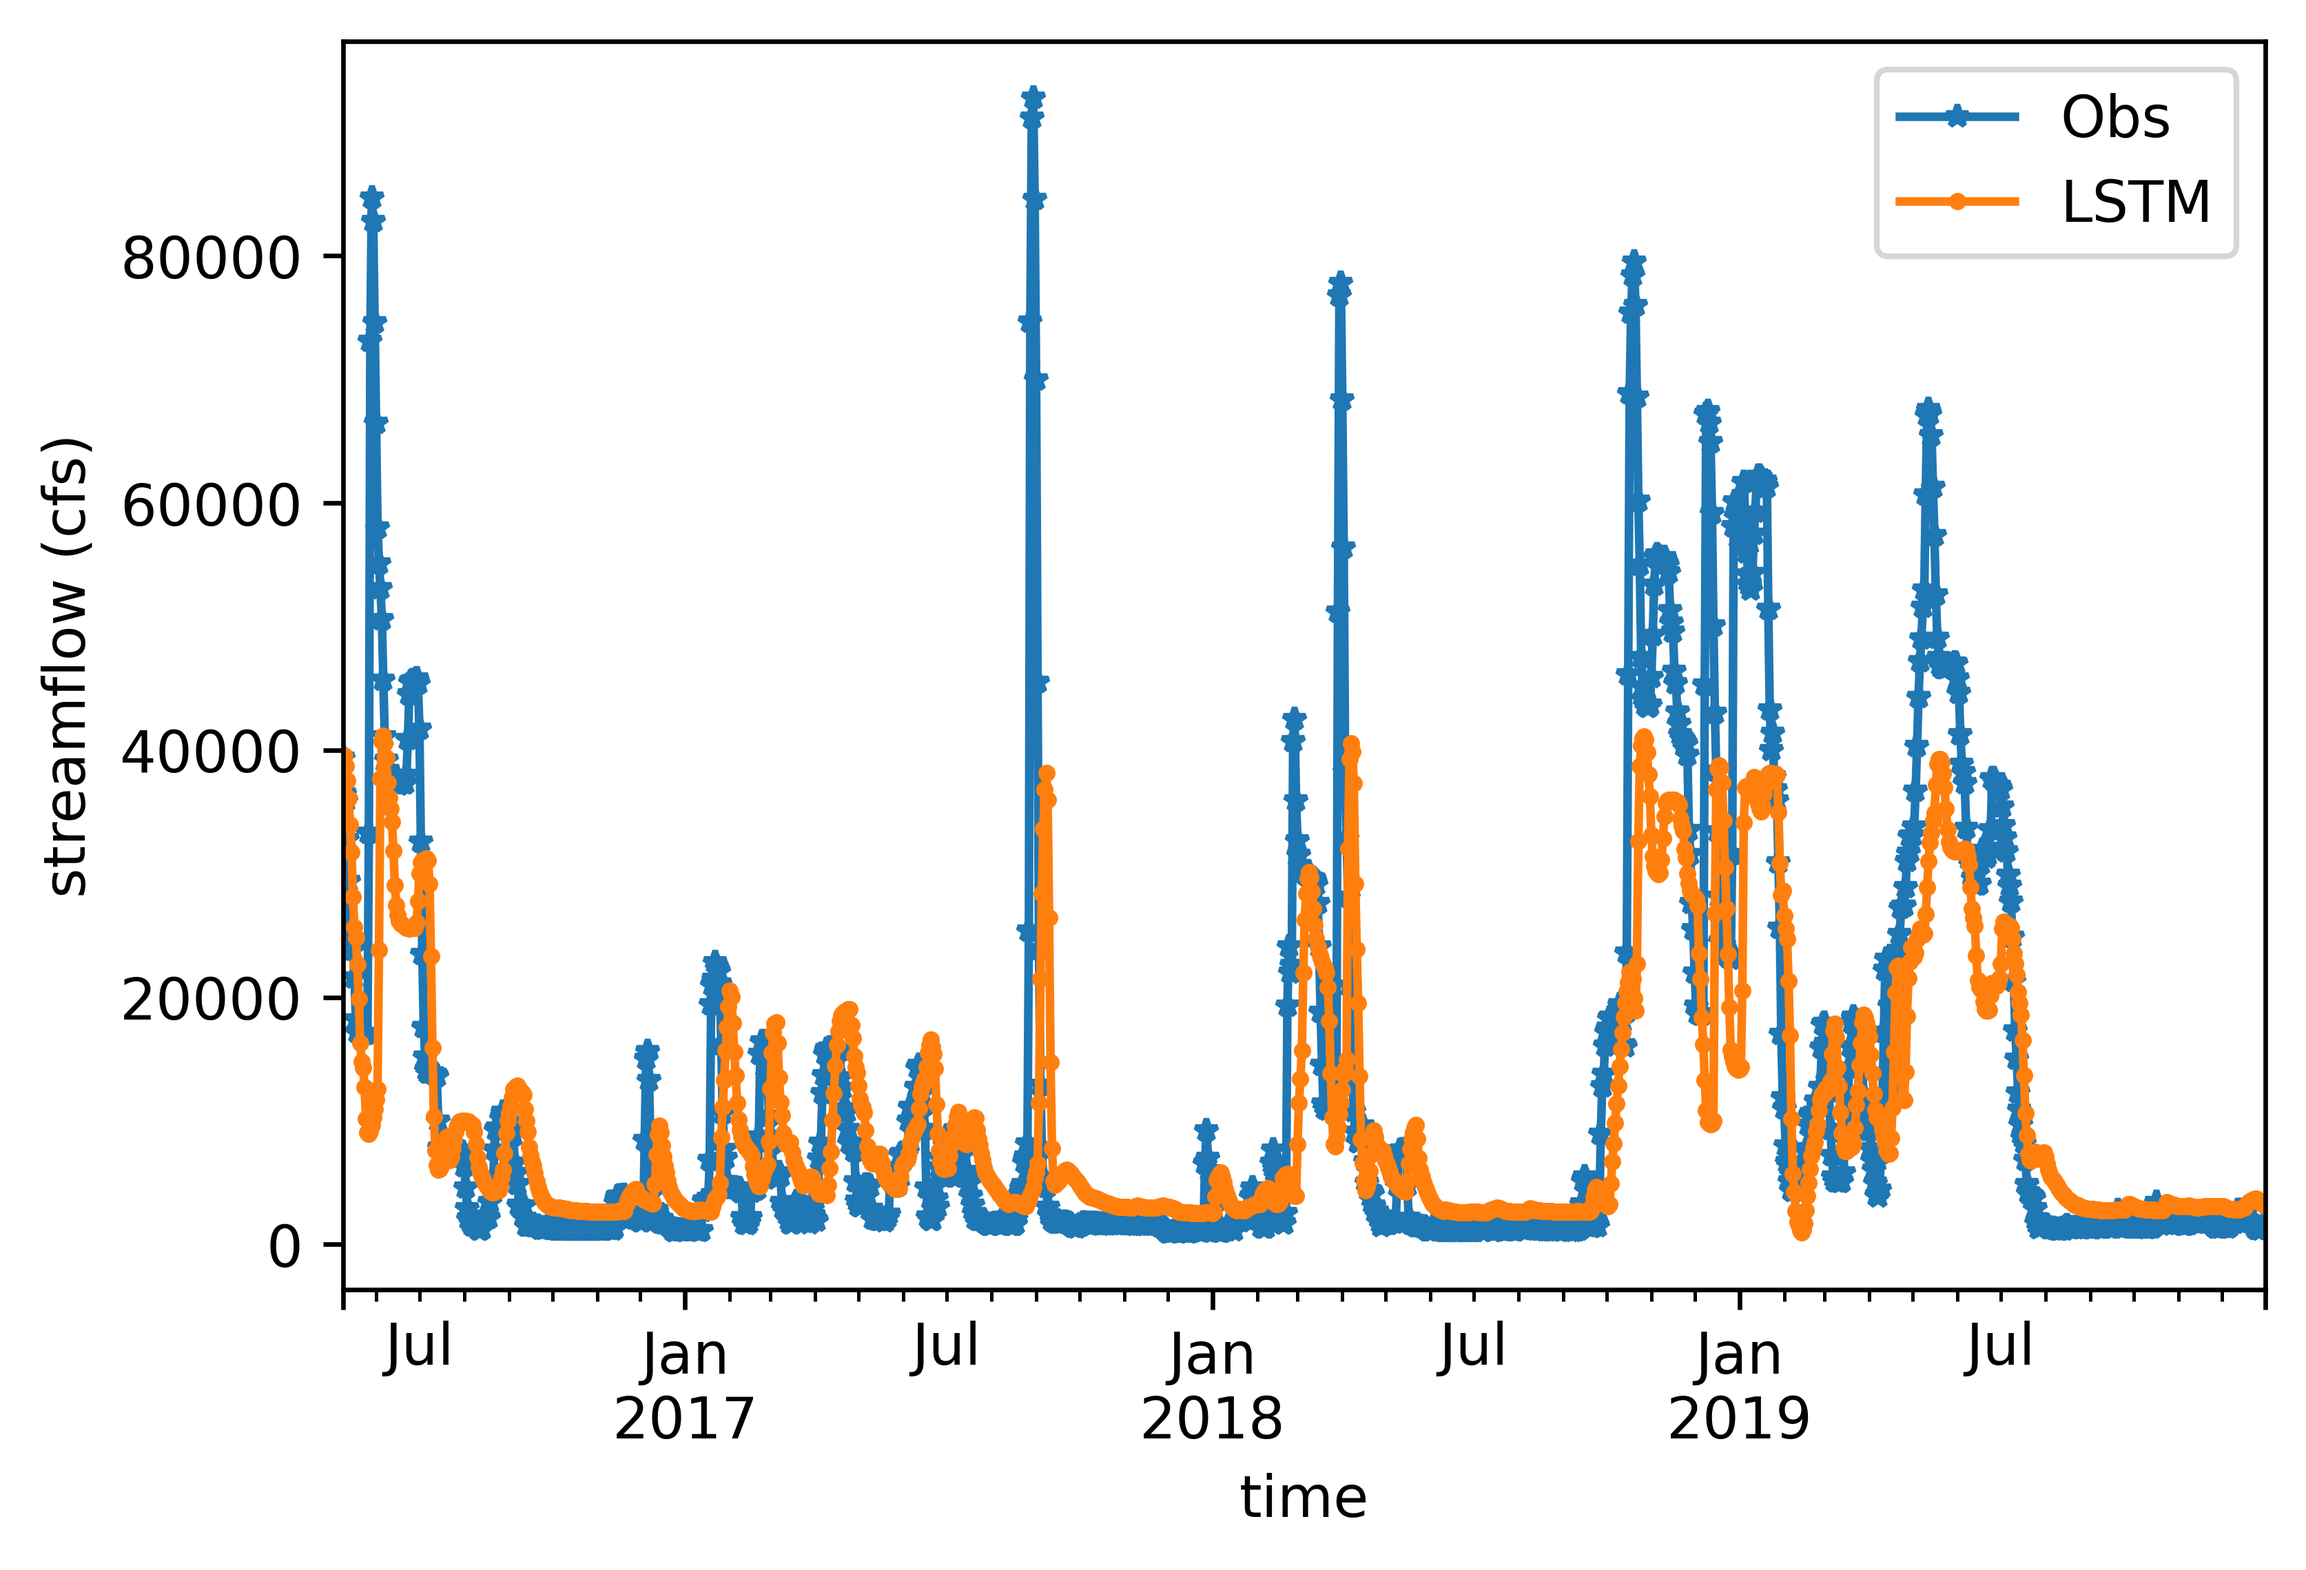
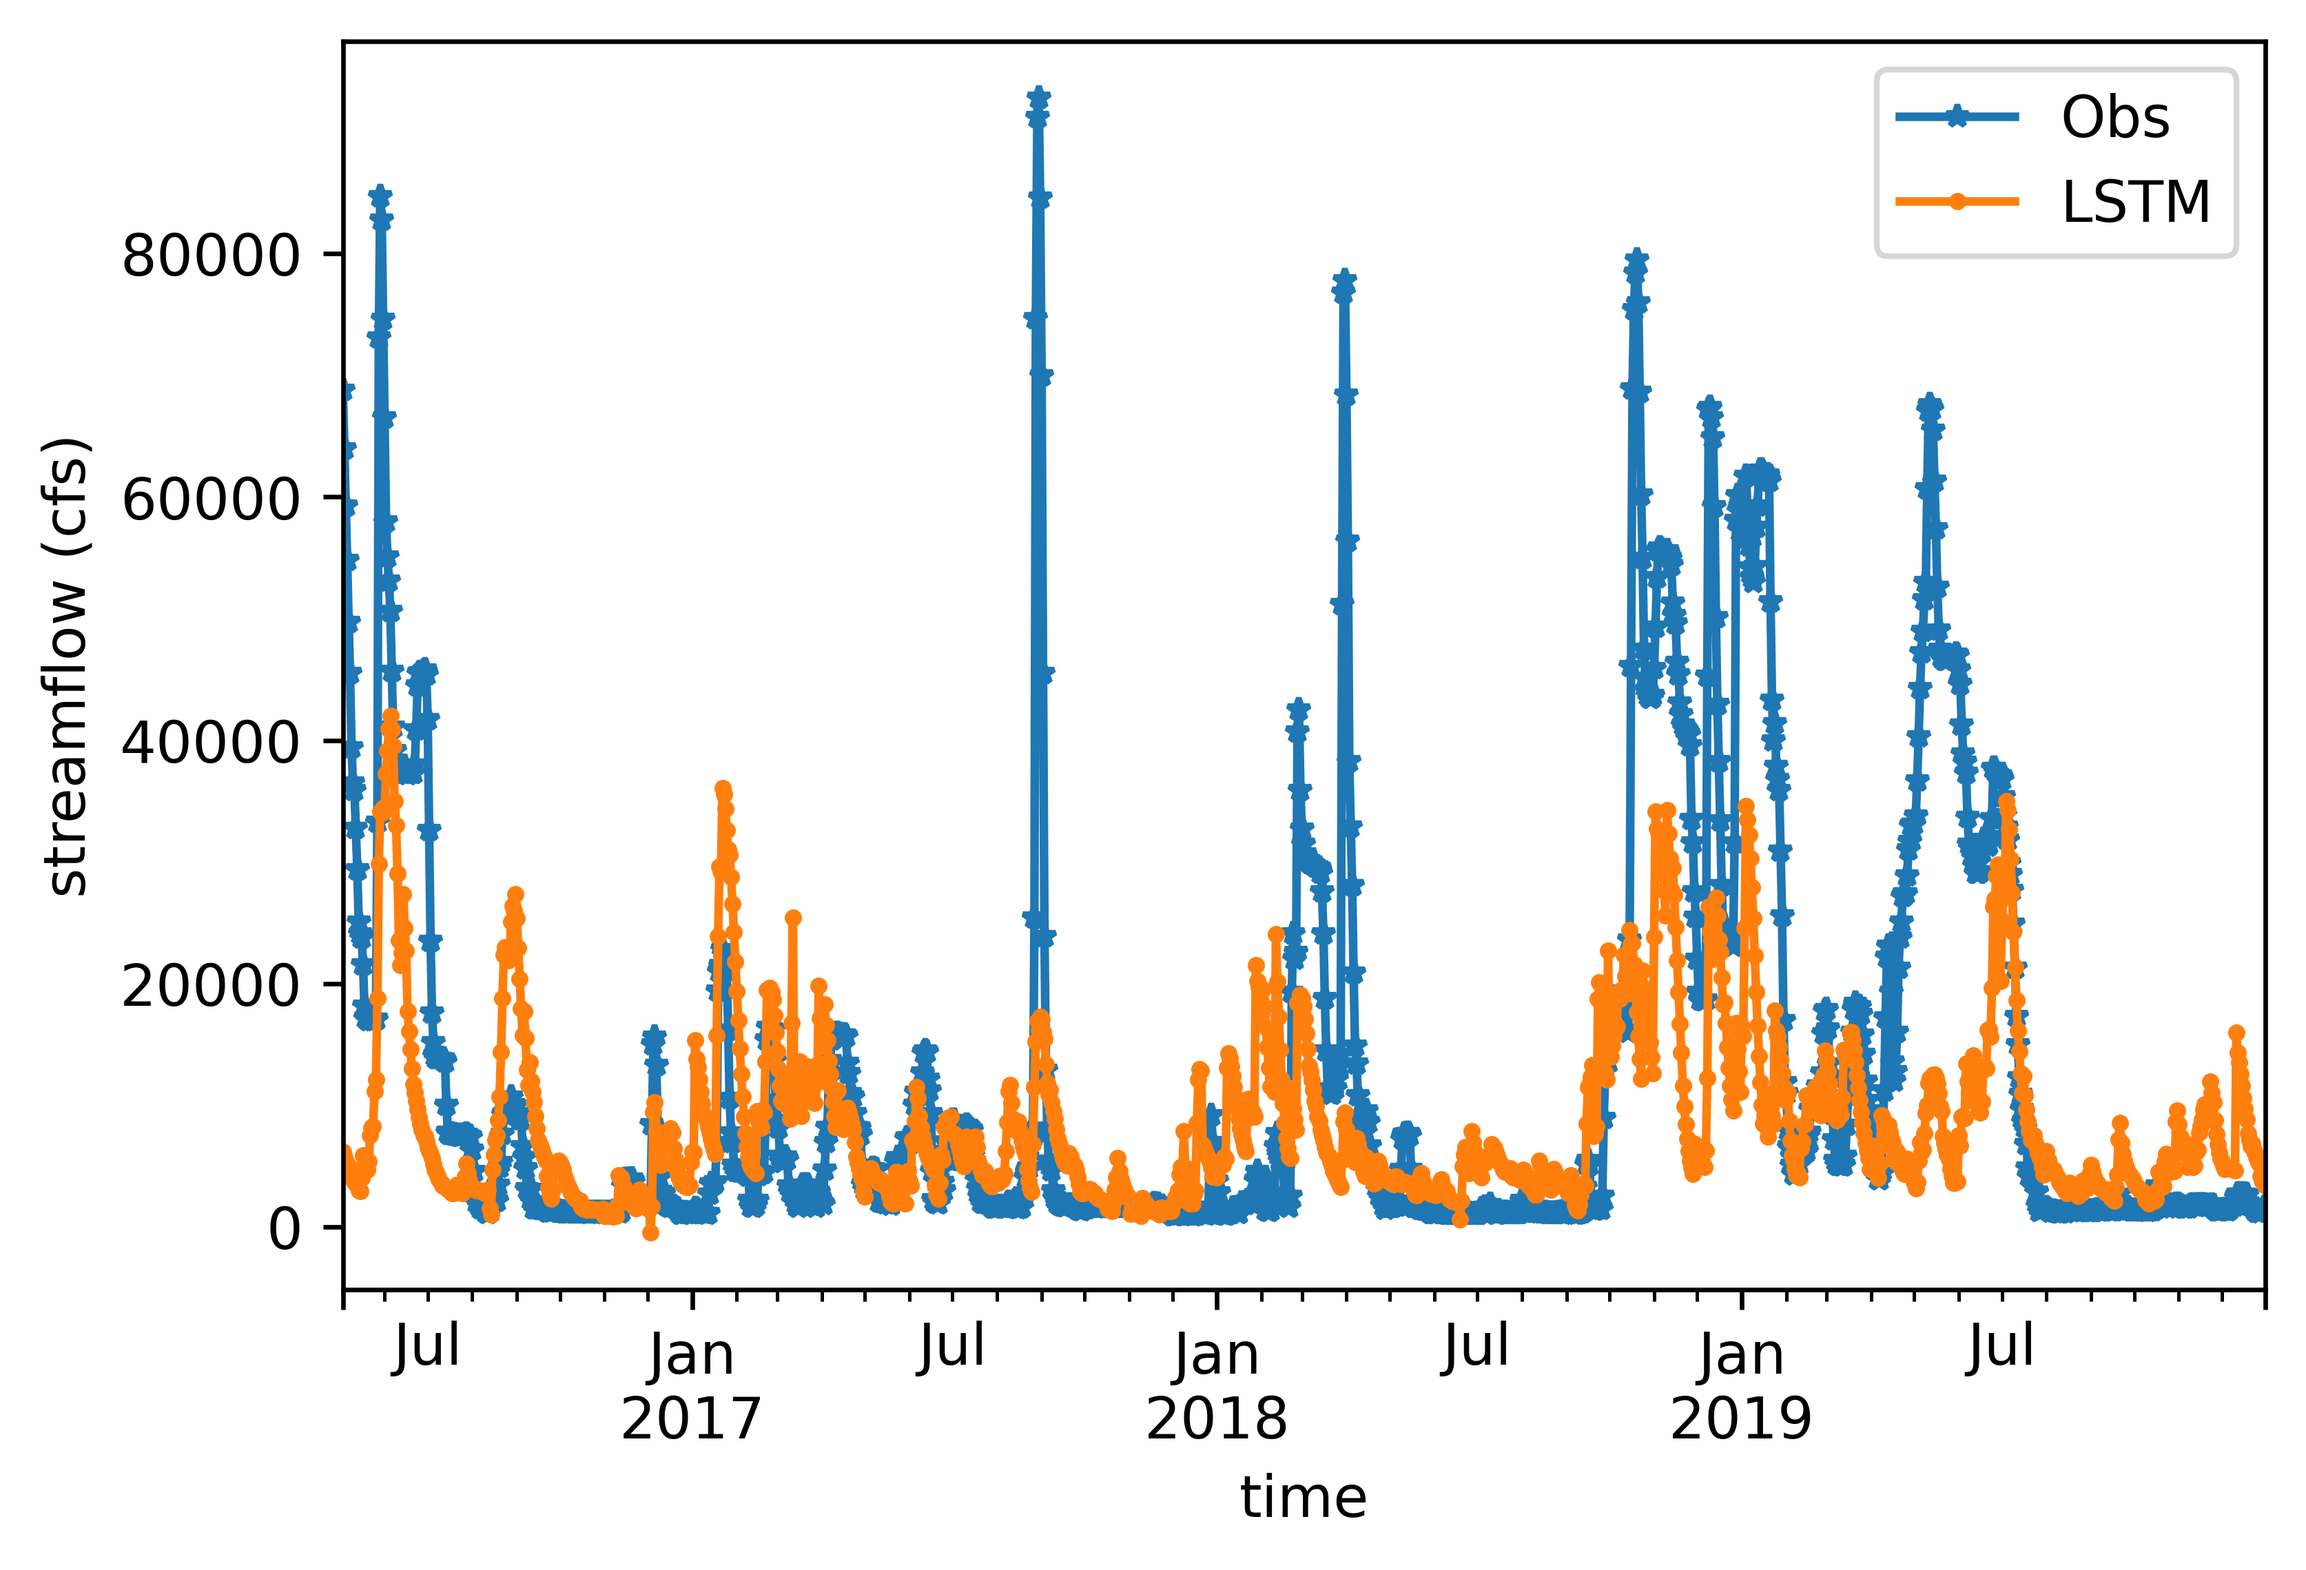
update

diff --git a/Flow_RM/main.py b/Flow_RM/main.py
@@ -13,6 +13,11 @@ from sklearn.utils import shuffle
 import copy
 def MSE(X,Y):
 	return np.mean((X-Y)**2)**.5
+def NSE(X,Y):
+	
+    return 1 - np.sum(np.abs(X-Y)) / np.sum(np.abs(Y - np.mean(Y)))
+    
+    
 def CORREL(X,Y):
 	X_bar = np.nanmean(X)
 	Y_bar = np.nanmean(Y)
@@ -33,8 +38,8 @@ def make_dataset(df):
     
     print('n_input', n_input)
     
-    X = np.zeros([n_input, input_width, df.shape[1]])
-    #X = np.zeros([n_input, input_width, 2])
+    #X = np.zeros([n_input, input_width, df.shape[1]])
+    X = np.zeros([n_input, input_width, 2])
     y = np.zeros([n_input, label_width, 1])
     for i in range(n_input):
     
@@ -42,8 +47,8 @@ def make_dataset(df):
             print(np.arange(n_input)[i:i+input_width])
             print(np.arange(n_input)[i+input_width+(shift-label_width):i+input_width+shift])
     
-        X[i, :, :] = df.iloc[i:i+input_width, :]
-        #X[i, :, :] = df.iloc[i:i+input_width, :2]
+        #X[i, :, :] = df.iloc[i:i+input_width, :]
+        X[i, :, :] = df.iloc[i:i+input_width, :2]
         
         
         
@@ -73,7 +78,11 @@ def make_dataset(df):
 #data = pd.read_csv("08066500_nldas.txt", delimiter=',', header=0)
 #data = pd.read_csv("08066500.txt", delimiter=',', header=0)
 
-data = pd.read_csv("08066500_chirps.txt", delimiter=',', header=0)
+data = pd.read_csv("08068390.txt", delimiter=',', header=None)
+
+data = data.rename(columns={0: "year", 1: "month", 2: "day", 3: "flow", 4: "PET", 
+                            5: "rain1", 6: "rain2", 7: "rain3", 8: "rain4"})
+
 
 data['date'] = data['year'].astype(str) + \
     data['month'].astype(str).str.zfill(2) + \
@@ -89,7 +98,7 @@ data['daily_rain'] = data['rain1'] + data['rain2'] + data['rain3'] + data['rain4
 
 
 data = data[['PET', 'daily_rain', 'flow']]
-data = data[['flow']] * 35.314666212661
+data[['flow']] = data[['flow']] * 35.314666212661
 
 #data.to_csv('08066500_nldas.csv')
 
@@ -136,7 +145,7 @@ test_df = (test_df - train_mean) / train_std
 
 input_width = 50
 label_width = 1
-shift = 7
+shift = 1
 
 
 X_train, y_train = make_dataset(train_df)
@@ -214,7 +223,7 @@ print('test KGE RF:', KGE(y_pred_rf, y_test), 'baseline KGE:', KGE(y_pred_base, 
 
 
 print(mode)
-print('test MSE LSTM:', MSE(y_pred, y_test), 'baseline MSE:', MSE(y_pred_base, y_test))
+print('test MSE LSTM:', NSE(y_pred, y_test), 'baseline MSE:', NSE(y_pred_base, y_test))
 print('test CORREL LSTM:', CORREL(y_pred, y_test), 'baseline CORREL:', CORREL(y_pred_base, y_test))
 print('test KGE LSTM:', KGE(y_pred, y_test), 'baseline KGE:', KGE(y_pred_base, y_test))
 
